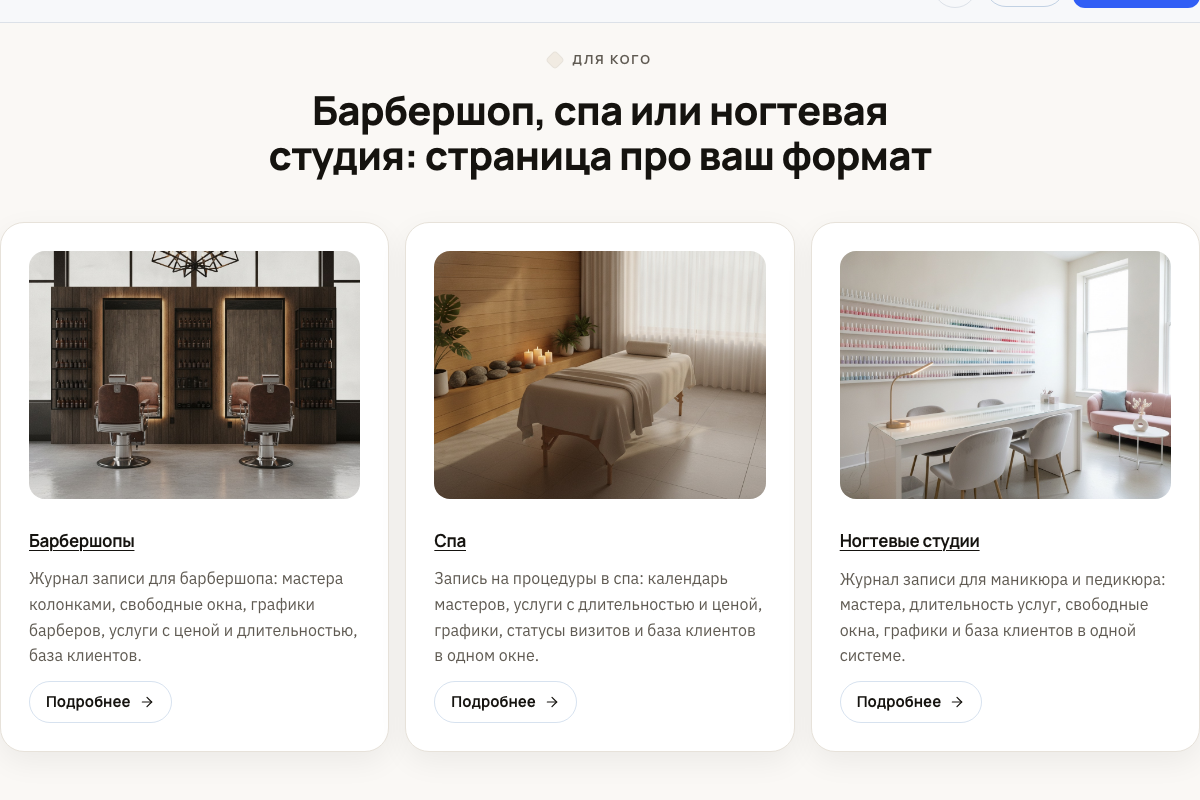
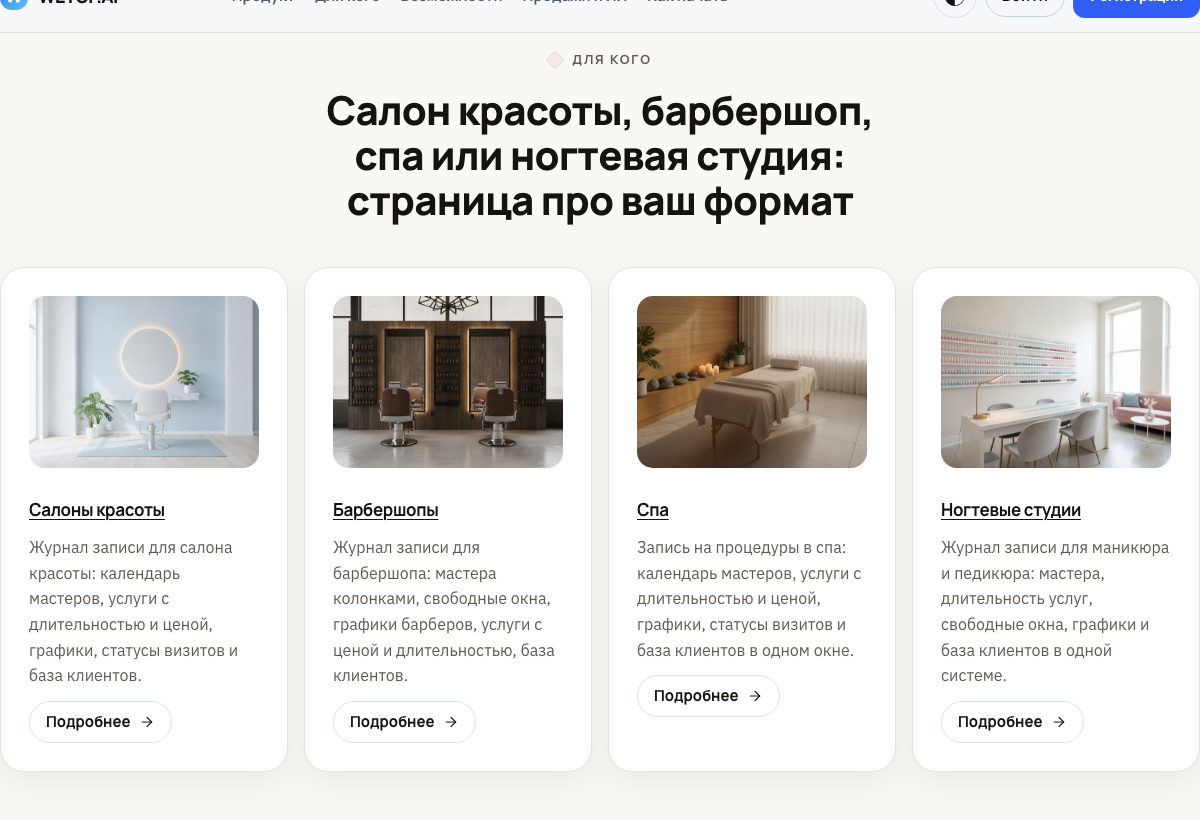
feat(site): /for/beauty-salons/ landing; type cards grid by count

diff --git a/apps/site/src/i18n/ru.ts b/apps/site/src/i18n/ru.ts
@@ -1085,7 +1085,7 @@ export const ru: Dictionary = {
     more: 'Подробнее',
     typesTitle: {
       hotels: 'Хостел, мини-отель или апарт-отель: страница про ваш формат',
-      salons: 'Барбершоп, спа или ногтевая студия: страница про ваш формат',
+      salons: 'Салон красоты, барбершоп, спа или ногтевая студия: страница про ваш формат',
       restaurants: 'Кафе или бар: страница про ваш формат',
     },
     items: {
@@ -1167,6 +1167,66 @@ export const ru: Dictionary = {
           },
         ],
         limits: 'Подключение обсуждается с нами: напишите, и мы разберём ваш случай.',
+      },
+      'beauty-salons': {
+        title: 'Салон красоты, где у каждого мастера заполненный день',
+        metaTitle: 'Салоны красоты',
+        seoTitle: 'Программа для салона красоты: запись и мастера',
+        description:
+          'Журнал записи для салона красоты: календарь мастеров, услуги с длительностью и ценой, графики, статусы визитов и база клиентов.',
+        lead: 'Парикмахеры, косметологи и мастера маникюра в одном календаре. Свободные окна видны сразу, запись за минуту, никаких тетрадей и переписок.',
+        cards: [
+          {
+            icon: 'calendar',
+            title: 'Календарь записей',
+            text: 'Мастера колонками, свободное время видно сразу: щелчок по окну открывает новую запись.',
+          },
+          {
+            icon: 'guest',
+            title: 'Запись за минуту',
+            text: 'Клиент, услуга, мастер, дата, время и цена в одной форме. Нового клиента заводите тут же, без отдельного справочника.',
+          },
+          {
+            icon: 'check',
+            title: 'Статусы записи',
+            text: 'Запланирована, подтверждена, завершена, отменена или «не пришёл»: видно, как прошёл день, и кто срывает визиты.',
+          },
+          {
+            icon: 'scissors',
+            title: 'Мастера и их услуги',
+            text: 'Карточка мастера: контакты, что умеет, в каких филиалах работает. Запись встаёт только к тому, кто делает эту услугу.',
+          },
+          {
+            icon: 'grid',
+            title: 'График и отсутствия',
+            text: 'Рабочие часы мастера по дням недели, отпуска и выходные. Записать на время, когда мастера нет, не получится.',
+          },
+          {
+            icon: 'tag',
+            title: 'Услуги, длительность и цены',
+            text: 'Каталог с группами, длительностью в минутах и ценой. В каждом филиале своя цена и длительность, если нужно.',
+          },
+        ],
+        limits: 'Онлайн-запись с сайта, напоминания клиентам и оплата записи в WETOP пока не входят.',
+        photoAlt: 'Светлый салон красоты с креслом и круглым зеркалом с подсветкой',
+        faq: [
+          {
+            q: 'Подойдёт ли салону с разными направлениями?',
+            a: 'Да. Услуги собираются в группы, например волосы, ногти, косметология, и у каждого мастера свой набор услуг.',
+          },
+          {
+            q: 'Как не записать клиента к мастеру, который не работает?',
+            a: 'У мастера свой график и отсутствия: на время, когда его нет, запись не поставится.',
+          },
+          {
+            q: 'Видно ли, кто не пришёл?',
+            a: 'Да. У записи есть статус «не пришёл», по нему видно сорванные визиты.',
+          },
+          {
+            q: 'Если у меня несколько салонов?',
+            a: 'Филиалы ведутся в одной организации, у мастера отмечено, где он работает, а цена услуги может отличаться по филиалу.',
+          },
+        ],
       },
       barbershops: {
         title: 'Барбершоп, где каждое кресло занято по записи',

diff --git a/apps/site/src/components/landing/subtype-links.tsx b/apps/site/src/components/landing/subtype-links.tsx
@@ -8,6 +8,9 @@ import { typo } from '../typo';
  * Типы бизнеса направления карточками-ссылками (11.10.2026): человек находит страницу про свой формат,
  * поисковик видит связи между лендингами. Блоки главной (`.card`), своего класса нет.
  */
+/** Сетка по числу карточек: две и четыре в ряд без пустой ячейки */
+const GRID: Record<number, number> = { 2: 2, 4: 4 };
+
 export function SubtypeLinks({ direction, title }: { direction: Direction; title: string }) {
   const t = getDictionary();
   return (
@@ -18,7 +21,7 @@ export function SubtypeLinks({ direction, title }: { direction: Direction; title
           {typo(title)}
         </h2>
       </div>
-      <ul className="card-grid card-grid--3">
+      <ul className={`card-grid card-grid--${GRID[subtypesOf(direction).length] ?? 3}`}>
         {subtypesOf(direction).map((slug) => {
           const item = t.segments.items[slug];
           return (

diff --git a/apps/site/src/lib/landings.ts b/apps/site/src/lib/landings.ts
@@ -11,6 +11,7 @@ export const SUBTYPES = {
   hostels: { vertical: 'HOSPITALITY', direction: 'hotels', photo: '/photos/hostel.jpg' },
   'mini-hotels': { vertical: 'HOSPITALITY', direction: 'hotels', photo: '/photos/minihotel.jpg' },
   'apart-hotels': { vertical: 'HOSPITALITY', direction: 'hotels', photo: '/photos/aparthotel.jpg' },
+  'beauty-salons': { vertical: 'BEAUTY', direction: 'salons', photo: '/photos/salon.jpg' },
   barbershops: { vertical: 'BEAUTY', direction: 'salons', photo: '/photos/barbershop.jpg' },
   spa: { vertical: 'BEAUTY', direction: 'salons', photo: '/photos/spa.jpg' },
   'nail-studios': { vertical: 'BEAUTY', direction: 'salons', photo: '/photos/nails.jpg' },

diff --git a/tests/site/marketing-block.spec.ts b/tests/site/marketing-block.spec.ts
@@ -11,6 +11,7 @@ const PAGES = [
   { path: '/for/mini-hotels/', soon: 1 },
   { path: '/for/apart-hotels/', soon: 1 },
   { path: '/for/salons/', soon: 3 },
+  { path: '/for/beauty-salons/', soon: 3 },
   { path: '/for/barbershops/', soon: 3 },
   { path: '/for/spa/', soon: 3 },
   { path: '/for/nail-studios/', soon: 3 },

diff --git a/apps/site/src/i18n/types.ts b/apps/site/src/i18n/types.ts
@@ -15,6 +15,7 @@ export type SegmentSlug =
   | 'hostels'
   | 'mini-hotels'
   | 'apart-hotels'
+  | 'beauty-salons'
   | 'barbershops'
   | 'spa'
   | 'nail-studios'

diff --git a/CLAUDE.md b/CLAUDE.md
@@ -48,7 +48,7 @@
 
 **11.10.2026, полный проход SEO по сайту (локальная сессия, ветка `claude/seo-pass`; поручение владельца «все страницы под seo настрой четко, понятно, удобно»).** Видимые хлебные крошки «Главная / Направление / Тип» на всех лендингах (компонент `Breadcrumbs` рисует строку и ту же BreadcrumbList в JSON-LD, блок `.breadcrumbs` в реестре §19.5; верх страницы с крошками плотнее через `:has`). Своя картинка ссылки 1200×630 у каждого лендинга (`public/og/`, обрезки фото), `twitter:card summary_large_image`. Разделитель заголовка `|` вместо длинного тире (виден в выдаче, CLAUDE.md §5). `/restaurants/` (дубль запроса `/for/restaurants/`) отдаёт canonical на `/for/restaurants/` и снят из sitemap, сама страница осталась (решение обратимое, за владельцем). `fetchPriority="high"` у главного фото лендингов. SEO-сторож дополнен: twitter:card, нет длинного тире в title и description, уровни заголовков без пропусков, canonical дубля, видимые крошки и своя картинка. Проверки: набор сайта **126 из 126** (`…09-34-12Z`), site-design 6/6, tsc и eslint чисто; снимки `reports/site-seo-2026-10-11/`. За владельцем: Search Console и Яндекс Вебмастер (подтверждение сайта и отправка sitemap).
 
-**11.10.2026, страницы типов бизнеса для салонов и ресторанов и SEO-разметка всего сайта (локальная сессия, ветка `claude/subtype-landings-seo`; поручение владельца «под страницы для салонов: барбершоп, спа... под рестораны: кафе, бары... теги четкие для seo»).** Новые `/for/barbershops/`, `/for/spa/`, `/for/nail-studios/` (салонная палитра `.salon-page`) и `/for/cafes/`, `/for/bars/` на общем шаблоне `app/for/[segment]` со своими фото KIE, регистрацией под своё направление, блоком «Маркетинг и ИИ» направления и строкой «Пока нет» (спа: кабинетов как ресурса нет; бар: учёта бутылок нет; у салонов нет онлайн-записи и напоминаний, у ресторанов кассы и онлайн-брони). Тексты по инвентаризации кода: запрет записи вне графика и на занятое время проверен в API (`beauty/appointments.ts`, EXCLUDE). Единый список лендингов `lib/landings.ts` кормит шаблон, sitemap и подвал (колонки «Для гостиниц / салонов / ресторанов» со ссылками на все типы); страницы направлений ведут карточками на свои типы. SEO: JSON-LD Organization и WebSite в макете, FAQPage в общем финале, BreadcrumbList на лендингах и статьях, BlogPosting у статей; `seoTitle` у страниц типов; описание главной 173 → 141 знак, заголовок `/restaurants/` 81 → 60. Новый сторож `tests/site/seo.spec.ts`: каждая страница sitemap с одним h1, title до 70, description 50–160, canonical, og:image, разбираемым JSON-LD, без дублей (поймал два нарушения, исправлены). Поправка §19.9: у салона на «Сегодня» нет выручки, текст блока маркетинга исправлен. **Ресторанные экраны в продукте требуют миграций 081–082 на рабочей базе** (за владельцем). Проверки: набор сайта **124 из 124** (`…09-04-41Z`), site-design 6/6, tsc и eslint чисто; снимки `reports/site-subtypes-2026-10-11/`. **SEO-вопрос владельцу:** `/restaurants/` (страница соседней сессии) и `/for/restaurants/` отвечают на один запрос и делят выдачу; предлагаю оставить одну и с другой вести на неё.
+**11.10.2026, страницы типов бизнеса для салонов и ресторанов и SEO-разметка всего сайта (локальная сессия, ветка `claude/subtype-landings-seo`; поручение владельца «под страницы для салонов: барбершоп, спа... под рестораны: кафе, бары... теги четкие для seo»).** Новые `/for/beauty-salons/` (добавлена по замечанию владельца «ты забыл про салоны красоты»), `/for/barbershops/`, `/for/spa/`, `/for/nail-studios/` (салонная палитра `.salon-page`) и `/for/cafes/`, `/for/bars/` на общем шаблоне `app/for/[segment]` со своими фото KIE, регистрацией под своё направление, блоком «Маркетинг и ИИ» направления и строкой «Пока нет» (спа: кабинетов как ресурса нет; бар: учёта бутылок нет; у салонов нет онлайн-записи и напоминаний, у ресторанов кассы и онлайн-брони). Тексты по инвентаризации кода: запрет записи вне графика и на занятое время проверен в API (`beauty/appointments.ts`, EXCLUDE). Единый список лендингов `lib/landings.ts` кормит шаблон, sitemap и подвал (колонки «Для гостиниц / салонов / ресторанов» со ссылками на все типы); страницы направлений ведут карточками на свои типы. SEO: JSON-LD Organization и WebSite в макете, FAQPage в общем финале, BreadcrumbList на лендингах и статьях, BlogPosting у статей; `seoTitle` у страниц типов; описание главной 173 → 141 знак, заголовок `/restaurants/` 81 → 60. Новый сторож `tests/site/seo.spec.ts`: каждая страница sitemap с одним h1, title до 70, description 50–160, canonical, og:image, разбираемым JSON-LD, без дублей (поймал два нарушения, исправлены). Поправка §19.9: у салона на «Сегодня» нет выручки, текст блока маркетинга исправлен. **Ресторанные экраны в продукте требуют миграций 081–082 на рабочей базе** (за владельцем). Проверки: набор сайта **124 из 124** (`…09-04-41Z`), с салонами красоты **126 из 126** (`…09-17-28Z`), site-design 6/6, tsc и eslint чисто; снимки `reports/site-subtypes-2026-10-11/`. **SEO-вопрос владельцу:** `/restaurants/` (страница соседней сессии) и `/for/restaurants/` отвечают на один запрос и делят выдачу; предлагаю оставить одну и с другой вести на неё.
 
 **11.10.2026, блок «Маркетинг и ИИ» на всех лендингах направлений (локальная сессия, ветка `claude/landing-marketing`; поручение владельца «добавь маркетинг, ИИ маркетинг, отчётность ежедневная, ИИ-продавец, анализ конкурентов... текст прям продающий»).** Общий компонент `components/landing/marketing-block.tsx` на `/for/hotels/`, `/for/hostels/`, `/for/mini-hotels/`, `/for/apart-hotels/`, `/for/salons/`, `/for/restaurants/`, тексты `marketing` в словаре. По инвентаризации кода (§19.9) у гостиниц живые: ИИ-продавец (сайт, WhatsApp, Telegram; бронь на сайте и в WhatsApp; отдельное расширение), анализ загрузки конкурентов, сайт с ИИ и виджет брони, «Сводка дня» и отчёты, аналитика сайта; «Реклама и контент» помечены «Скоро». У салона и ресторана живые только сводка дня на «Главной», аналитика, база клиентов (салон) и постоянные гости (ресторан); ИИ-продавец, сайт и реклама с пометкой «Скоро». Автоматической ежедневной рассылки отчётов нет ни у одного направления, на сайте её не обещаем. Продающие заголовки трёх страниц типов объектов. Попутно: на соседской `/restaurants/` сняты два обещания без продукта (ИИ-продавец и конструктор сайта стали «Скоро»), у `.salon-page` перекрашены `--chip-bg`/`--chip-fg` (метки в тёмной теме были 1,9:1). Проверки: набор сайта **111 из 111** (`2026-10-11T05-53-59Z`), после перестановки карточки 15/15 (`…05-57-00Z`), сторож site-design 6/6, tsc и eslint чисто; снимки `reports/site-marketing-2026-10-11/`.
 
